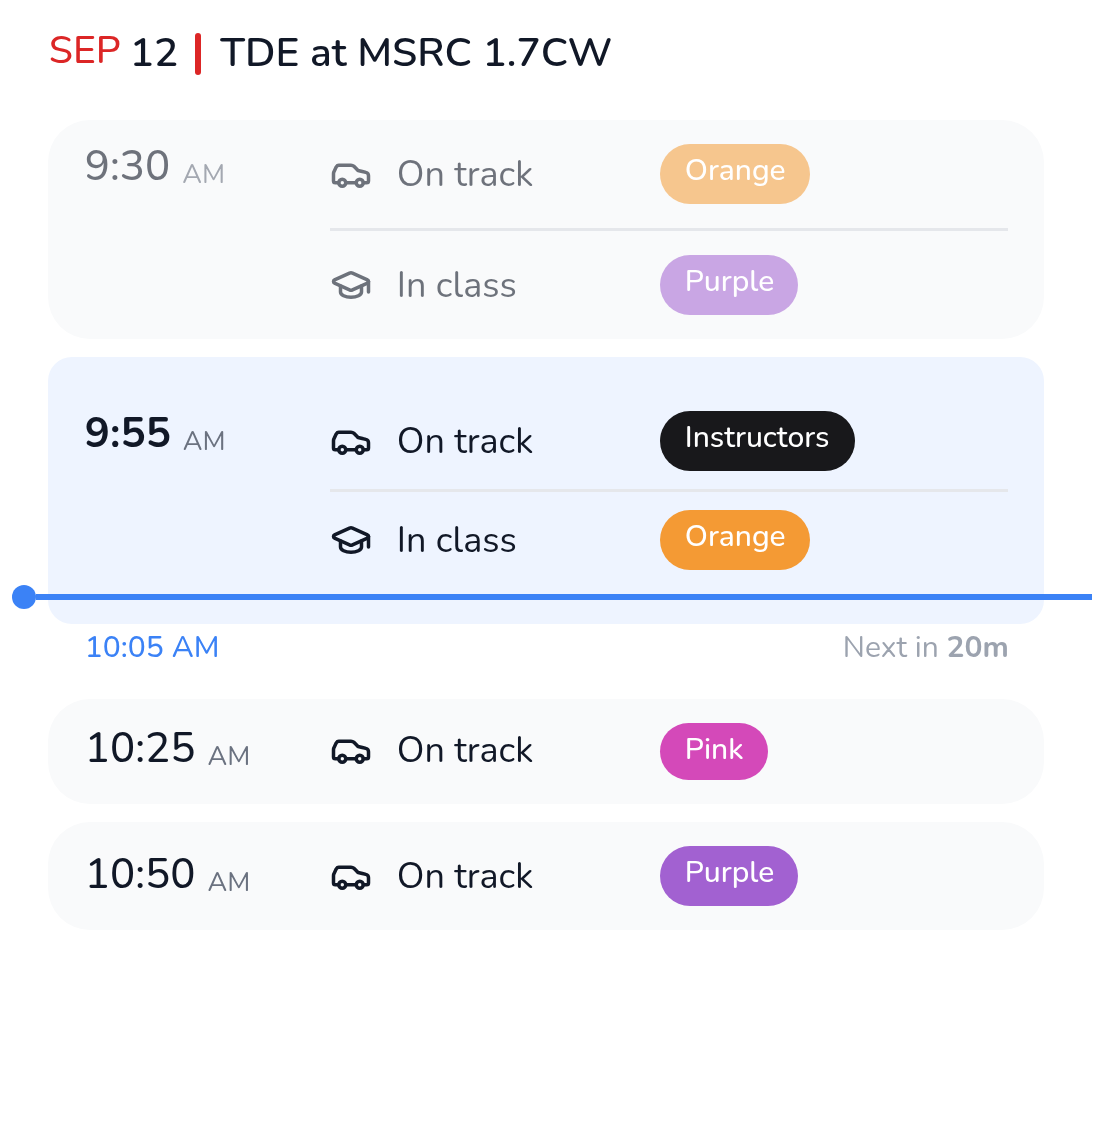
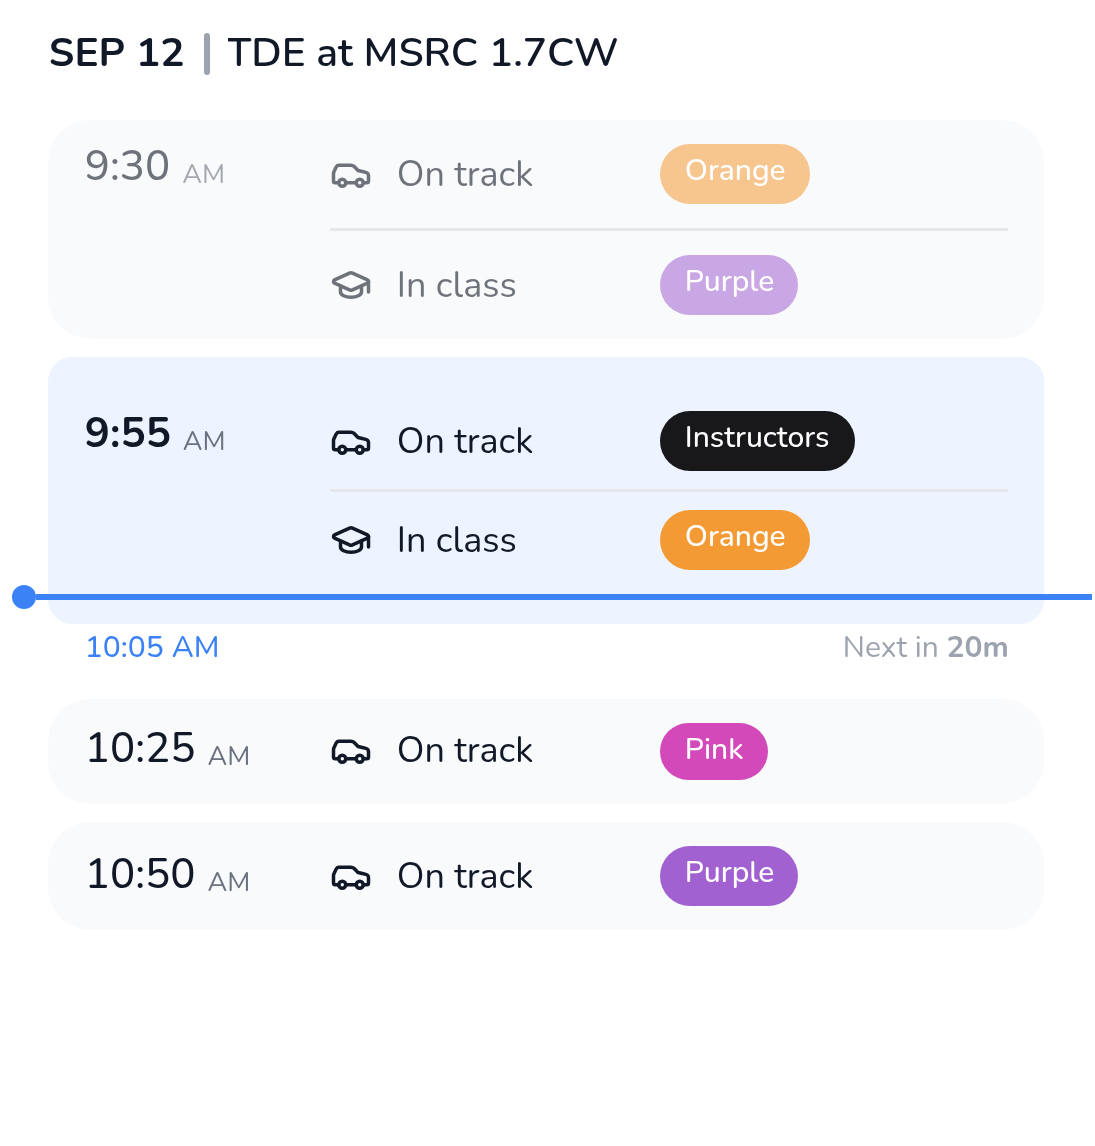
Widget: plainer live header, chips on the cards' ground (#291)
The date is bold in the text color, the bar between it and the name a
light gray, instead of the upcoming view's red. The parameter chips take
the activity cards' background; the heavier gray is gone from the
palette.

Claude-Session: https://claude.ai/code/session_01T8Wzr8rb1ETRwRVocMEep7

Changed region(s): [[0.0311, 0.0305, 0.5589, 0.0611]]

diff --git a/scripts/hpde-widget.js b/scripts/hpde-widget.js
@@ -385,8 +385,7 @@ function findRunGroup(event, manifest, id) {
 // the app's DateBlock month (red-600 light / red-400 dark) — for the
 // month, the countdown pill and the Small well;
 // `brandTint` (the app's LIVE badge background, red-500 at 10%) is the
-// pill's and the Small well's background. `chipBg` is the live view's
-// parameter chips (#291).
+// pill's and the Small well's background.
 function palette(dark) {
   return dark
     // Dark mode keeps its "cards are slightly LIGHTER than the
@@ -399,7 +398,6 @@ function palette(dark) {
         cardBg: new Color("#18181c"),
         currentCardBg: new Color("#122135"),
         divider: new Color("#26262c"),
-        chipBg: new Color("#26262c"),
         accent: new Color("#3b82f6"),
         brand: new Color("#f87171"), brandTint: new Color("#ef4444", 0.15),
         pastOpacity: 0.6 }
@@ -414,7 +412,6 @@ function palette(dark) {
         cardBg: new Color("#f9fafb"),
         currentCardBg: new Color("#eef4ff"),
         divider: new Color("#e5e7eb"),
-        chipBg: new Color("#e5e7eb"),
         accent: new Color("#3b82f6"),
         brand: new Color("#dc2626"), brandTint: new Color("#ef4444", 0.1),
         pastOpacity: 0.6 }
@@ -839,18 +836,18 @@ const CURRENT_CAPTION_OUTER_PAD = 4
 
 // ----- live view header (#291) -----
 //
-// The date and the event's name on one line, as the upcoming view has
-// them — the red month, the day, a red bar, then the name at the
-// countdown's title size (COUNTDOWN_TOKENS, the same numbers, not a
-// copy) — and under it, when the widget's parameter changes the view,
-// a row of chips saying how: the run groups it's filtered to, a
+// The date, bold, a light bar, then the event's name, on one line at
+// the countdown's title size (COUNTDOWN_TOKENS, the same number, not a
+// copy), so the live view reads like the upcoming one — and under it,
+// when the widget's parameter changes the view, a row of chips (on the
+// activity cards' ground) saying how: the run groups it's filtered to, a
 // warning for any of them with no sessions today, and the alert lead
 // time when it isn't the default, or that alerts are off. Filters sit
 // above the schedule in the app too. Offline, the line ends in
 // "Offline", as the old header's day did; the view has no status
 // footer (a Medium couldn't fit one under a two-row card).
 const LIVE_HEADER = {
-  dayGap: 3, barW: 2, barH: 14, barGap: 6,
+  barW: 2, barH: 14, barGap: 6,
   chipFont: 10, chipPadV: 3, chipPadH: 7, chipSpacing: 4,
   dotSize: 6, dotGap: 4, iconGap: 3,
   // For the row-fit budget: the header line and the chip row.
@@ -889,20 +886,12 @@ function renderHeader(w, event, day, p, stale, summary) {
   row.centerAlignContent()
 
   const [, m, d] = day.date.split("-").map(Number)
-  const month = row.addText(MONTH_ABBR[m - 1])
-  month.font = rMediumFont(c.monthFont)
-  month.textColor = p.brand
-  month.lineLimit = 1
-  row.addSpacer(t.dayGap)
-  const dayNum = row.addText(String(d))
-  dayNum.font = rSemiboldFont(c.titleFont)
-  dayNum.textColor = p.fg
-  dayNum.lineLimit = 1
+  addLiveText(row, `${MONTH_ABBR[m - 1]} ${d}`, rBoldFont(c.titleFont), p.fg)
 
   row.addSpacer(t.barGap)
   const bar = row.addStack()
   bar.size = new Size(t.barW, t.barH)
-  bar.backgroundColor = p.brand
+  bar.backgroundColor = p.muted
   bar.cornerRadius = 1
   row.addSpacer(t.barGap)
 
@@ -935,7 +924,7 @@ function drawParamChips(w, p, s) {
   // could be squeezed to "Ora…" / "Pur…" with room to spare. Small
   // chips each take what they need and pass the rest on.
   for (const g of s.groups) {
-    const chip = addParamChip(row, p.chipBg)
+    const chip = addParamChip(row, p.cardBg)
     const dot = chip.addStack()
     dot.size = new Size(t.dotSize, t.dotSize)
     dot.cornerRadius = t.dotSize / 2
@@ -963,7 +952,7 @@ function drawParamChips(w, p, s) {
     chip.addSpacer(t.iconGap)
     addLiveText(chip, "Notifications off", rMediumFont(t.chipFont), WARN_COLOR)
   } else if (s.lead != null) {
-    const chip = addParamChip(row, p.chipBg)
+    const chip = addParamChip(row, p.cardBg)
     addChipSymbol(chip, "bell", p.mutedStrong)
     chip.addSpacer(t.iconGap)
     const text = s.lead === 0 ? "At start" : `${s.lead}m`

diff --git a/scripts/hpde-widget.test.ts b/scripts/hpde-widget.test.ts
@@ -640,7 +640,7 @@ describe('live view header and parameter chips (#291)', () => {
     }],
   }
   // The header line (the test mocks are always offline), then the chips.
-  const HEADER = ['SEP', '12', 'TDE at MSRC', 'Offline']
+  const HEADER = ['SEP 12', 'TDE at MSRC', 'Offline']
 
   async function live(family: string, param: string | null, at = '10:05', setup?: () => void) {
     vi.useFakeTimers({ toFake: ['Date'] })
@@ -649,35 +649,39 @@ describe('live view header and parameter chips (#291)', () => {
     return (globalThis as any).__texts as string[]
   }
   afterEach(() => { vi.useRealTimers() })
+  // The texts begin with the header line, then `rest` (chips, then cards).
+  function expectStart(texts: string[], ...rest: string[]) {
+    expect(texts.slice(0, HEADER.length + rest.length)).toEqual([...HEADER, ...rest])
+  }
 
   it('puts the date before the name, as the upcoming view does, and no chips without a parameter', async () => {
     const texts = await live('large', null)
-    expect(texts.slice(0, 5)).toEqual([...HEADER, '9:30'])
+    expectStart(texts, '9:30')
   })
 
   it('shows the groups it filters to and a non-default alert time', async () => {
     const texts = await live('large', 'orange,purple|15m')
-    expect(texts.slice(0, 7)).toEqual([...HEADER, 'Orange', 'Purple', '15m'])
+    expectStart(texts, 'Orange', 'Purple', '15m')
   })
 
   it('leaves the default alert time out', async () => {
     const texts = await live('large', 'orange|10m')
-    expect(texts.slice(0, 6)).toEqual([...HEADER, 'Orange', '9:30'])
+    expectStart(texts, 'Orange', '9:30')
   })
 
   it('says when alerts come at the start', async () => {
     const texts = await live('large', '0m')
-    expect(texts.slice(0, 5)).toEqual([...HEADER, 'At start'])
+    expectStart(texts, 'At start')
   })
 
   it('warns when a group it filters to has no sessions today', async () => {
     const texts = await live('large', 'orange,blue')
-    expect(texts.slice(0, 6)).toEqual([...HEADER, 'Orange', 'No Blue today'])
+    expectStart(texts, 'Orange', 'No Blue today')
   })
 
   it('shows a parameter it can\'t read as a chip, not a footer', async () => {
     const texts = await live('large', 'orange,blu')
-    expect(texts.slice(0, 6)).toEqual([...HEADER, 'Orange', 'Invalid parameter: blu'])
+    expectStart(texts, 'Orange', 'Invalid parameter: blu')
     expect(texts.filter(t => /Invalid/.test(t))).toHaveLength(1)
   })
 
@@ -685,7 +689,7 @@ describe('live view header and parameter chips (#291)', () => {
     const texts = await live('large', 'orange|15m', '10:05', () => {
       ;(globalThis as any).Notification.prototype.schedule = async () => { throw new Error('denied') }
     })
-    expect(texts.slice(0, 6)).toEqual([...HEADER, 'Orange', 'Notifications off'])
+    expectStart(texts, 'Orange', 'Notifications off')
     expect(texts).not.toContain('15m')
   })
 
@@ -699,7 +703,7 @@ describe('live view header and parameter chips (#291)', () => {
     expect(large).toContain('9:30')
     const medium = await live('medium', null)
     expect(medium).not.toContain('9:30')
-    expect(medium.slice(0, 5)).toEqual([...HEADER, '10:00'])
+    expectStart(medium, '10:00')
   })
 
   it('shows the last activity on Medium once the day is over', async () => {
@@ -713,7 +717,7 @@ describe('live view header and parameter chips (#291)', () => {
     vi.setSystemTime(new Date(`${DAY}T10:05:00`))
     await runWidget('large', empty, 'orange|15m')
     const texts = (globalThis as any).__texts as string[]
-    expect(texts.slice(0, 6)).toEqual([...HEADER, '15m', 'Schedule coming soon'])
+    expectStart(texts, '15m', 'Schedule coming soon')
   })
 })
 
